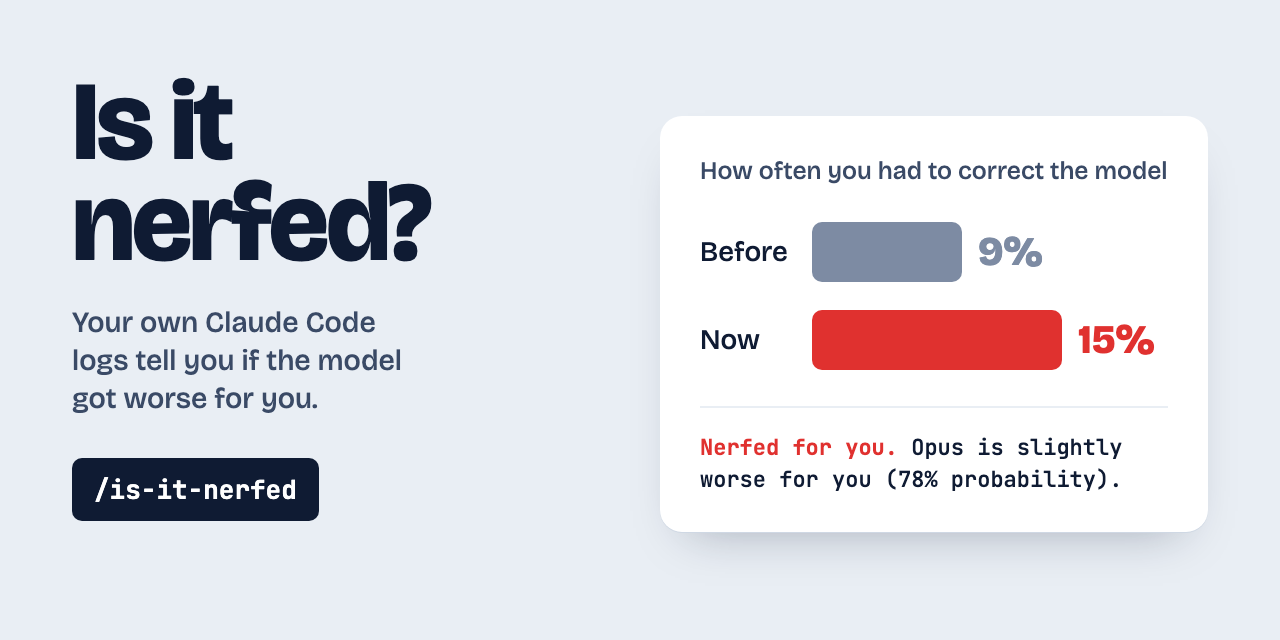
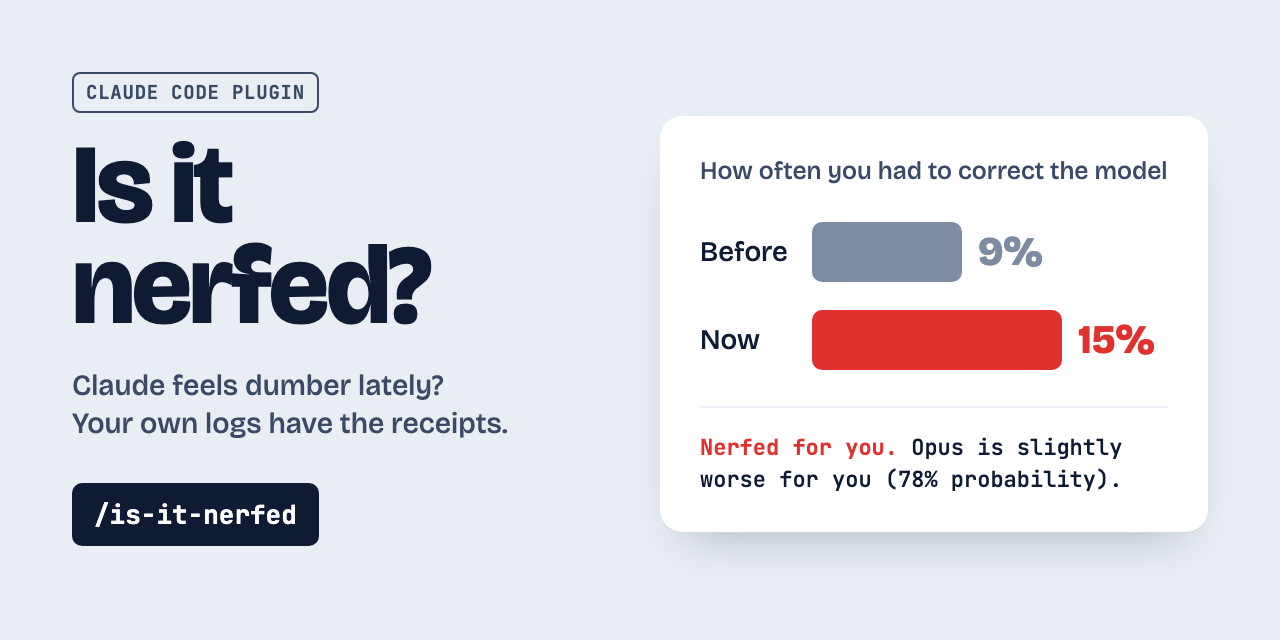
Use the new hook line and a plugin label in the preview image

Changed region(s): [[0.0312, 0.0938, 0.4062, 0.6875], [0.0312, 0.7188, 0.25, 0.875]]

diff --git a/assets/preview.html b/assets/preview.html
@@ -7,6 +7,7 @@
 * { box-sizing:border-box; margin:0; }
 html,body { width:1280px; height:640px; background:var(--bg); color:var(--ink); overflow:hidden; }
 body { font-family:"Bricolage Grotesque",sans-serif; display:grid; grid-template-columns:540px 1fr; gap:48px; padding:72px 72px 64px; }
+.tag { display:inline-block; margin-bottom:22px; font:700 19px "JetBrains Mono",monospace; letter-spacing:.04em; text-transform:uppercase; color:var(--ink2); border:2px solid var(--ink2); padding:6px 12px; border-radius:8px; }
 h1 { font-weight:800; font-size:112px; line-height:.9; letter-spacing:-.028em; }
 .lede { margin-top:30px; font-size:29px; line-height:1.32; font-weight:500; color:var(--ink2); max-width:450px; text-wrap:balance; }
 .cmd { margin-top:40px; display:inline-block; font:700 26px "JetBrains Mono",monospace; background:var(--ink); color:#fff; padding:14px 22px; border-radius:10px; }
@@ -24,8 +25,9 @@ h1 { font-weight:800; font-size:112px; line-height:.9; letter-spacing:-.028em; }
 </style></head>
 <body>
 <div>
+  <div class="tag">Claude Code plugin</div>
   <h1>Is it<br>nerfed?</h1>
-  <p class="lede">Your own Claude Code logs tell you if the model got worse for you.</p>
+  <p class="lede">Claude feels dumber lately? Your own logs have the receipts.</p>
   <div class="cmd">/is-it-nerfed</div>
 </div>
 <div class="panel">

diff --git a/README.md b/README.md
@@ -1,6 +1,6 @@
 # is-it-nerfed
 
-![is-it-nerfed: your own Claude Code logs tell you if the model got worse for you](assets/preview.png)
+![is-it-nerfed, a Claude Code plugin: Claude feels dumber lately? Your own logs have the receipts.](assets/preview.png)
 
 Everyone argues about whether Claude got worse. This Claude Code plugin answers the question
 for **you**, from your own session logs, not from vibes on X.
